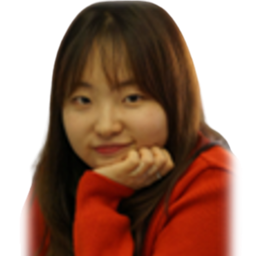
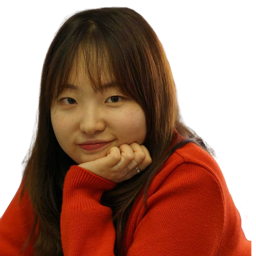
BECA: sync body/chassis profile images from main, fix chassis path case
- Pull updated images/profilepic/beca/body.png and chassis.png (lowercase).
- Point interview data and mosaic list to beca/chassis.png; rename mosaic asset to chassis.png for Linux/GitHub Pages.
- Regenerate mosaic thumbs; bump pv=9 and mosaic mv=3 + preload query strings.

Made-with: Cursor

diff --git a/js/role-interviews.js b/js/role-interviews.js
@@ -28,7 +28,7 @@ const PROFILE_PLACEHOLDER_IMAGE =
   "./images/logo/gm-symbol-color-light-bg-web.png";
 
 /** 프로필 PNG 교체 후에도 캐시된 옛 이미지가 보이지 않도록 URL에 버전을 붙임 (교체 배포 시 숫자만 올리면 됨) */
-const PROFILE_IMAGE_CACHE_VERSION = "8";
+const PROFILE_IMAGE_CACHE_VERSION = "9";
 function withProfileImageCacheBust(url) {
   if (!url || url.startsWith("data:")) return url;
   if (/\bpv=\d+\b/.test(url)) return url;
@@ -37,7 +37,7 @@ function withProfileImageCacheBust(url) {
 }
 
 /** Our Story 히어로 모자이크: `images/profilepic-mosaic/*.png` (256px, 알파 유지, scripts/build-profilepic-mosaic.sh) */
-const MOSAIC_THUMB_VERSION = "2";
+const MOSAIC_THUMB_VERSION = "3";
 function toHqLandingMosaicThumbUrl(url) {
   if (!url || typeof url !== "string") {
     return url;
@@ -352,7 +352,7 @@ const interviewData = {
     interviewId: "beca-exterior",
   },
   "BECA3.png": {
-    profileImage: "./images/profilepic/beca/Chassis.png",
+    profileImage: "./images/profilepic/beca/chassis.png",
     hq: "BECA",
     role: "Chassis",
     roleKr: "Chassis",
@@ -971,7 +971,7 @@ const PROFILE_MOSAIC_REL_PATHS = [
   "avd&svi/avd.png",
   "avd&svi/svi.png",
   "beca/Aftersales.png",
-  "beca/Chassis.png",
+  "beca/chassis.png",
   "beca/Exterior.png",
   "beca/body.png",
   "etc pic/제목 없음 (1080 x 1080 px) (8).png",

diff --git a/our-story.html b/our-story.html
@@ -50,22 +50,22 @@
     <link rel="preload" href="./images/logo/GMTCK.png" as="image" />
     <link
       rel="preload"
-      href="./images/profilepic-mosaic/beca/body.png?mv=2"
+      href="./images/profilepic-mosaic/beca/body.png?mv=3"
       as="image"
     />
     <link
       rel="preload"
-      href="./images/profilepic-mosaic/avd%26svi/avd.png?mv=2"
+      href="./images/profilepic-mosaic/avd%26svi/avd.png?mv=3"
       as="image"
     />
     <link
       rel="preload"
-      href="./images/profilepic-mosaic/EE/PQDQ.png?mv=2"
+      href="./images/profilepic-mosaic/EE/PQDQ.png?mv=3"
       as="image"
     />
     <link
       rel="preload"
-      href="./images/profilepic-mosaic/ve/safety%20performance%20integration1.png?mv=2"
+      href="./images/profilepic-mosaic/ve/safety%20performance%20integration1.png?mv=3"
       as="image"
     />
     <link rel="preconnect" href="https://fonts.googleapis.com" />
